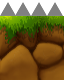
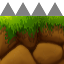
sistemate spikes

diff --git a/src/morpheus/model/Spikes.java b/src/morpheus/model/Spikes.java
@@ -1,5 +1,7 @@
 package morpheus.model;
 
+import java.awt.Rectangle;
+
 import morpheus.view.state.GameState;
 
 /**
@@ -9,6 +11,7 @@ import morpheus.view.state.GameState;
  */
 public class Spikes extends AbstractDrawable {
 
+    private static final int OFFSET = 16;
     /**
      * Spikes.
      * @param x
@@ -36,6 +39,18 @@ public class Spikes extends AbstractDrawable {
      */
     public void reaction(final Player p) {
         p.hit();
+    }
+    
+    public Rectangle getTop() {
+        return new Rectangle((int) this.getX(), (int) this.getY() + OFFSET, this.getWidth(), 1);
+    }
+    
+    public Rectangle getLeft() {
+        return new Rectangle((int) this.getX(), (int) this.getY() + OFFSET, 1, this.getHeight() - OFFSET);
+    }
+
+    public Rectangle getRight() {
+        return new Rectangle((int) this.getX() + this.getWidth(), (int) this.getY() + OFFSET, 1, this.getHeight() - OFFSET);
     }
 
 }

diff --git a/src/morpheus/model/AbstractDrawable.java b/src/morpheus/model/AbstractDrawable.java
@@ -150,7 +150,7 @@ public abstract class AbstractDrawable implements Drawable {
      * @return Un rettangolo che rappresenta il lato superiore
      */
     public Rectangle getTop() {
-        return new Rectangle((int) this.getX(), (int) this.getY(), this.getWidth(), 0);
+        return new Rectangle((int) this.getX(), (int) this.getY(), this.getWidth(), 1);
     }
 
     /**
@@ -177,7 +177,7 @@ public abstract class AbstractDrawable implements Drawable {
      * @return Un rettangolo che rappresenta il lato inferiore
      */
     public Rectangle getBottom() {
-        return new Rectangle((int) this.getX(), (int) this.getY(), this.getWidth(), 1);
+        return new Rectangle((int) this.getX(), (int) this.getY() + getHeight(), this.getWidth(), 1);
     }
 
     /**

diff --git a/src/morpheus/model/ModelImpl.java b/src/morpheus/model/ModelImpl.java
@@ -194,7 +194,7 @@ public class ModelImpl implements Model {
     @Override
     public Spikes getSpikes(final double x, final double y, final GameState state) {
         return new Spikes(x, y, state,
-                new Sprite(new SpriteSheet(new Texture("res/spike.png"), DIMENSION64, DIMENSION80), 1, 1, 1)
+                new Sprite(new SpriteSheet(new Texture("res/spike.png"), DIMENSION64, DIMENSION64), 1, 1, 1)
                         .getMainFrame());
     }
 }

diff --git a/src/morpheus/model/Ranking.java b/src/morpheus/model/Ranking.java
@@ -236,7 +236,7 @@ public final class Ranking extends Storable {
     private void remove() {
         Collections.sort(values, new Element()::compare);
         toSort = false;
-        app.remove(values.get(MAX_SIZE));
+        app.remove(values.get(MAX_SIZE).getName());
         values.remove(MAX_SIZE);
         
     }
